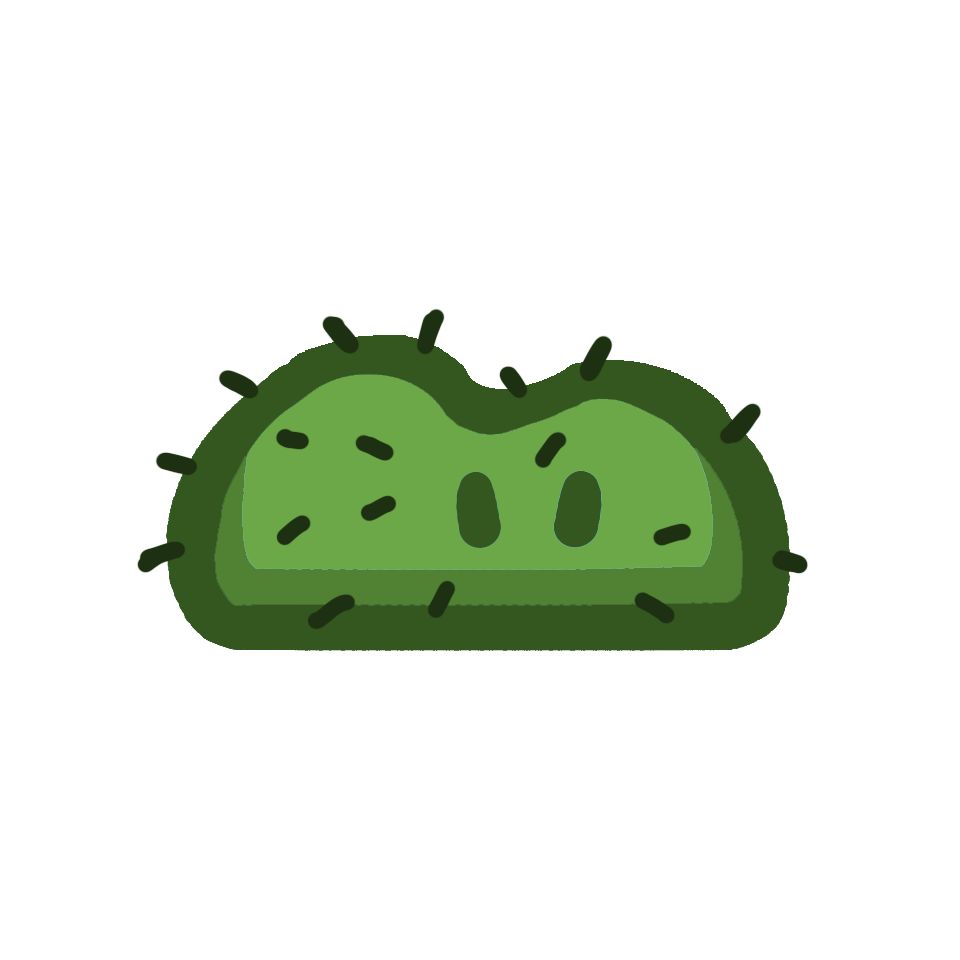
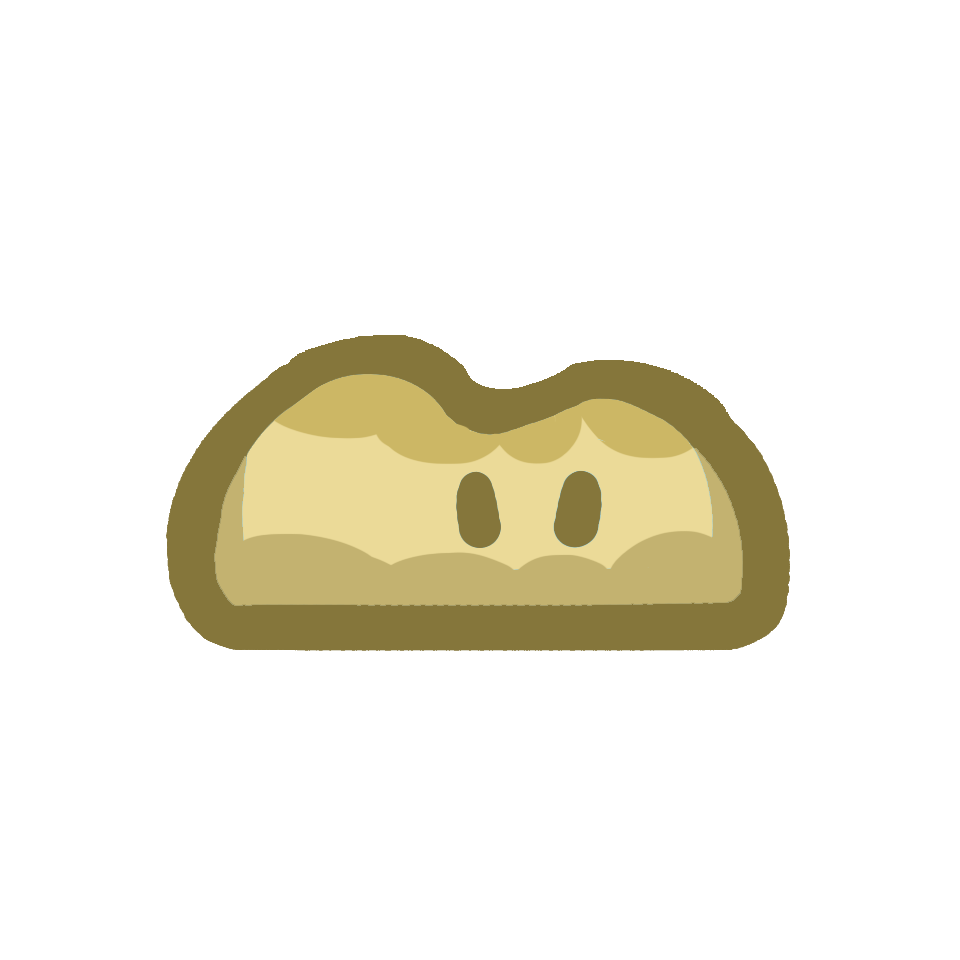
Fix : 업그레이드 패널 터치 관통 수정
- 패널 활성화 중 슬라임 월드 입력 차단
- 패널 바깥 배경 터치로 닫기 지원
- 잘못 적용된 13레벨 슬라임 이미지 교체

Changed region(s): [[0.125, 0.3125, 0.8438, 0.6875]]

diff --git a/Assets/02.Scripts/UI/UpgradeUI.cs b/Assets/02.Scripts/UI/UpgradeUI.cs
@@ -7,7 +7,8 @@ public class UpgradeUI : MonoBehaviour
     [SerializeField] private RectTransform _rectTransform;
     [SerializeField] private RectTransform _panelTarget;
     [SerializeField] private Button _uiButton;
-    [SerializeField] private GameObject _doNotTouchPanel;
+    [SerializeField] private Button _dismissBackdropButton;
+    [SerializeField] private Clicker _clicker;
     [SerializeField] private float _movingDuration = 0.5f;
 
     private bool _isOpened = false;
@@ -35,7 +36,8 @@ public class UpgradeUI : MonoBehaviour
         if (_rectTransform == null ||
             _panelTarget == null ||
             _uiButton == null ||
-            _doNotTouchPanel == null)
+            _dismissBackdropButton == null ||
+            _clicker == null)
         {
             Debug.LogError("업그레이드 UI의 필수 참조가 비어 있습니다.", this);
             enabled = false;
@@ -52,7 +54,8 @@ public class UpgradeUI : MonoBehaviour
 
         _toggleEdgeOffset = _toggleRectTransform.anchoredPosition.x;
         _uiButton.onClick.AddListener(ViewUI);
-        _doNotTouchPanel.SetActive(false);
+        _dismissBackdropButton.onClick.AddListener(CloseFromBackdrop);
+        _dismissBackdropButton.gameObject.SetActive(false);
 
         _isInitialized = true;
         RefreshLayout();
@@ -86,12 +89,18 @@ public class UpgradeUI : MonoBehaviour
     {
         _moveTween?.Kill();
         _moveTween = null;
+        _clicker?.ReleaseMode(this);
     }
 
     private void OnEnable()
     {
         if (_isInitialized)
         {
+            if (_isOpened)
+            {
+                _clicker.PushMode(this, ClickerInputMode.Blocked, ClickerInputPriority.Modal);
+            }
+
             RefreshLayout();
         }
     }
@@ -99,6 +108,8 @@ public class UpgradeUI : MonoBehaviour
     private void OnDestroy()
     {
         _uiButton?.onClick.RemoveListener(ViewUI);
+        _dismissBackdropButton?.onClick.RemoveListener(CloseFromBackdrop);
+        _clicker?.ReleaseMode(this);
     }
 
     private void ViewUI()
@@ -106,6 +117,11 @@ public class UpgradeUI : MonoBehaviour
         if (!_isToggleInputEnabled) return;
 
         SetOpened(!_isOpened);
+    }
+
+    private void CloseFromBackdrop()
+    {
+        TryClose();
     }
 
     public bool TryClose()
@@ -121,7 +137,16 @@ public class UpgradeUI : MonoBehaviour
         if (_isOpened == isOpened) return;
 
         _isOpened = isOpened;
-        _doNotTouchPanel.SetActive(_isOpened);
+        _dismissBackdropButton.gameObject.SetActive(_isOpened);
+        if (_isOpened)
+        {
+            _clicker.PushMode(this, ClickerInputMode.Blocked, ClickerInputPriority.Modal);
+        }
+        else
+        {
+            _clicker.ReleaseMode(this);
+        }
+
         MoveDrawer(animated: true);
 
         if (_isOpened) Opened?.Invoke();
